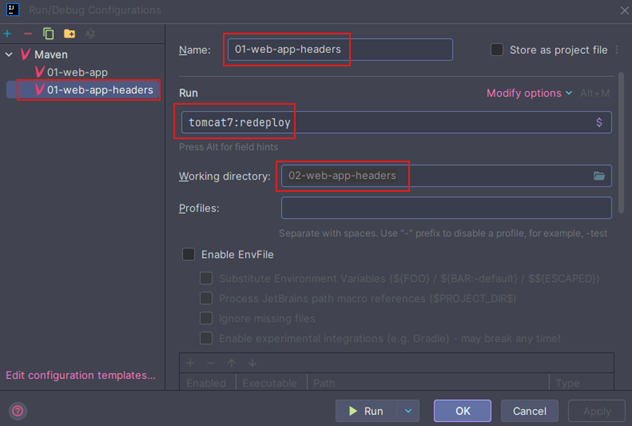
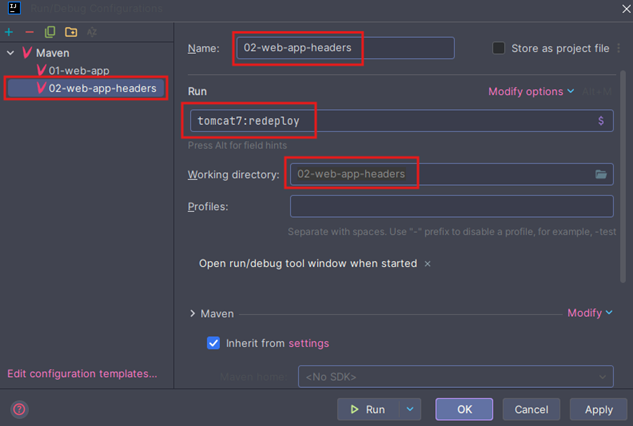
Mejorando documentación: Configuración de arranque de aplicación

diff --git a/README.md b/README.md
@@ -39,7 +39,7 @@ que sí importan, su equivalente en `Spring` y el nivel de profundidad recomenda
 aplicaciones empresariales en Java. Es el sucesor de `Java EE` y define APIs que permiten construir aplicaciones
 `portables`, `escalables` y `mantenibles`, desplegadas sobre un servidor de aplicaciones.
 
-![01.png](assets/00-introduccion/01.png)
+![00.png](assets/00-introduccion/00.png)
 
 ### 🏗 Contenedores dentro de un servidor de aplicaciones
 
@@ -117,7 +117,7 @@ adecuado según el contexto.
 - En nuestro caso, usaremos el binario para Windows:  
   [Windows zip (pgp, sha512)](https://dlcdn.apache.org/tomcat/tomcat-11/v11.0.18/bin/apache-tomcat-11.0.18-windows-x64.zip)
 
-  ![02.png](assets/00-introduccion/02.png)
+  ![01.png](assets/00-introduccion/01.png)
 
 ### 2⃣ Instalación
 
@@ -278,7 +278,7 @@ Cuando `Maven` descarga tus dependencias del `pom.xml`, las guarda como archivos
 
 ## 📂 Creando la estructura del proyecto
 
-Como parte de la convención de `Jakarta EE`, creamos un directorio llamado **`webapp`** dentro de `src/main`.  
+Como parte de la convención de `Jakarta EE`, creamos un directorio llamado `/webapp` dentro de `src/main`.  
 Este directorio debe llamarse exactamente así, ya que es donde se colocan los recursos web de la aplicación.
 
 Dentro de `src/main/webapp` agregamos un archivo `index.html` con contenido básico:
@@ -296,19 +296,27 @@ Dentro de `src/main/webapp` agregamos un archivo `index.html` con contenido bás
 </html>
 ```
 
-### ⚙ Configurando el arranque de la aplicación en IntelliJ IDEA
+#### 📌 Nota práctica
+
+> El directorio `/webapp` es obligatorio porque Maven lo reconoce como el lugar donde se almacenan los recursos web
+(HTML, JSP, archivos estáticos).
+
+## ⚙ Configurando el arranque de la aplicación en IntelliJ IDEA
 
 1. Ir a `Edit Configurations...`
 2. Seleccionar `Add new...` → `Maven`
 3. Configurar:
     - Name: `01-web-app` (nombre de nuestra aplicación)
     - Run (Command line): `tomcat7:redeploy`
+    - Working directory: `01-web-app` (directorio del proyecto a ejecutar)
 4. Guardar con `Apply` → `OK`
+
+La imagen muestra cómo quedaría nuestra configuración de ejecución:
+
+![02.png](assets/00-introduccion/02.png)
 
 #### 📌 Nota práctica
 
-> - El directorio `webapp` es obligatorio porque Maven lo reconoce como el lugar donde se almacenan los recursos web
-    (HTML, JSP, archivos estáticos).
 > - El comando `tomcat7:redeploy` permite compilar, empaquetar y desplegar automáticamente el proyecto en Tomcat sin
     necesidad de copiar manualmente el WAR.
 > - Aunque el plugin se llama `tomcat7`, funciona también con versiones modernas como `Tomcat 11`.
@@ -345,12 +353,14 @@ Using CATALINA_HOME:   "C:\apache-tomcat-11.0.18"
 
 ## 📦 Construcción y despliegue automático del WAR
 
-Gracias a la configuración previa en IntelliJ con el plugin Tomcat Maven, podemos ejecutar:
+Gracias a la configuración de arranque que hicimos en el apartado
+[⚙ Configurando el arranque de la aplicación en IntelliJ IDEA](#-configurando-el-arranque-de-la-aplicación-en-intellij-idea)
+con el plugin Tomcat Maven, podemos ejecutar una de las siguientes dos opciones:
 
-- `Run 01-web-app`
-- o `Debug 01-web-app`
+1. `Run 01-web-app`
+2. `Debug 01-web-app`
 
-Esto construye el archivo `.war` y lo despliega automáticamente en `Tomcat`.
+Al ejecutar una de esas dos opciones, se construirá el archivo `.war` y lo desplegará automáticamente en `Tomcat`.
 
 Ejemplo de log:
 

diff --git a/01.api-servlet-introduccion.md b/01.api-servlet-introduccion.md
@@ -790,6 +790,12 @@ Uploaded: http://localhost:8080/manager/text/deploy?path=%2F01-web-app&update=tr
 [INFO] ------------------------------------------------------------------------ 
 ````
 
+> **📌 Nota**  
+> Para saber cómo configurar el arranque de nuestra aplicación y que nos aparezcan estas opciones:
+> `Run '01-web-app'` o `Debug '01-web-app'` podemos ir al archivo `README.md`, a su apartado
+> [⚙ Configurando el arranque de la aplicación en IntelliJ IDEA](README.md#-configurando-el-arranque-de-la-aplicación-en-intellij-idea)
+> donde se muestra paso a paso la configuración.
+
 ### 3. Acceder en el navegador
 
 La URL final se construye así:
@@ -955,8 +961,9 @@ anterior, con dos adiciones importantes:
 > 📌 **Jackson** es la librería estándar de facto para trabajar con JSON en el ecosistema Java. Quarkus también la usa
 > internamente (a través de `quarkus-jackson` o `quarkus-resteasy-reactive-jackson`).
 
-Finalmente, en `Edit Configurations...` agregamos una nueva configuración para este proyecto para que cuando ejecutemos
-se despliegue automáticamente a Tomcat.
+## ⚙ Configurando arranque de la aplicación
+
+Configuramos el arranque para esta nueva aplicación en `Edit Configurations...` de nuestro `IntelliJ IDEA`:
 
 ![10.png](assets/01-servlet/10.png)
 
